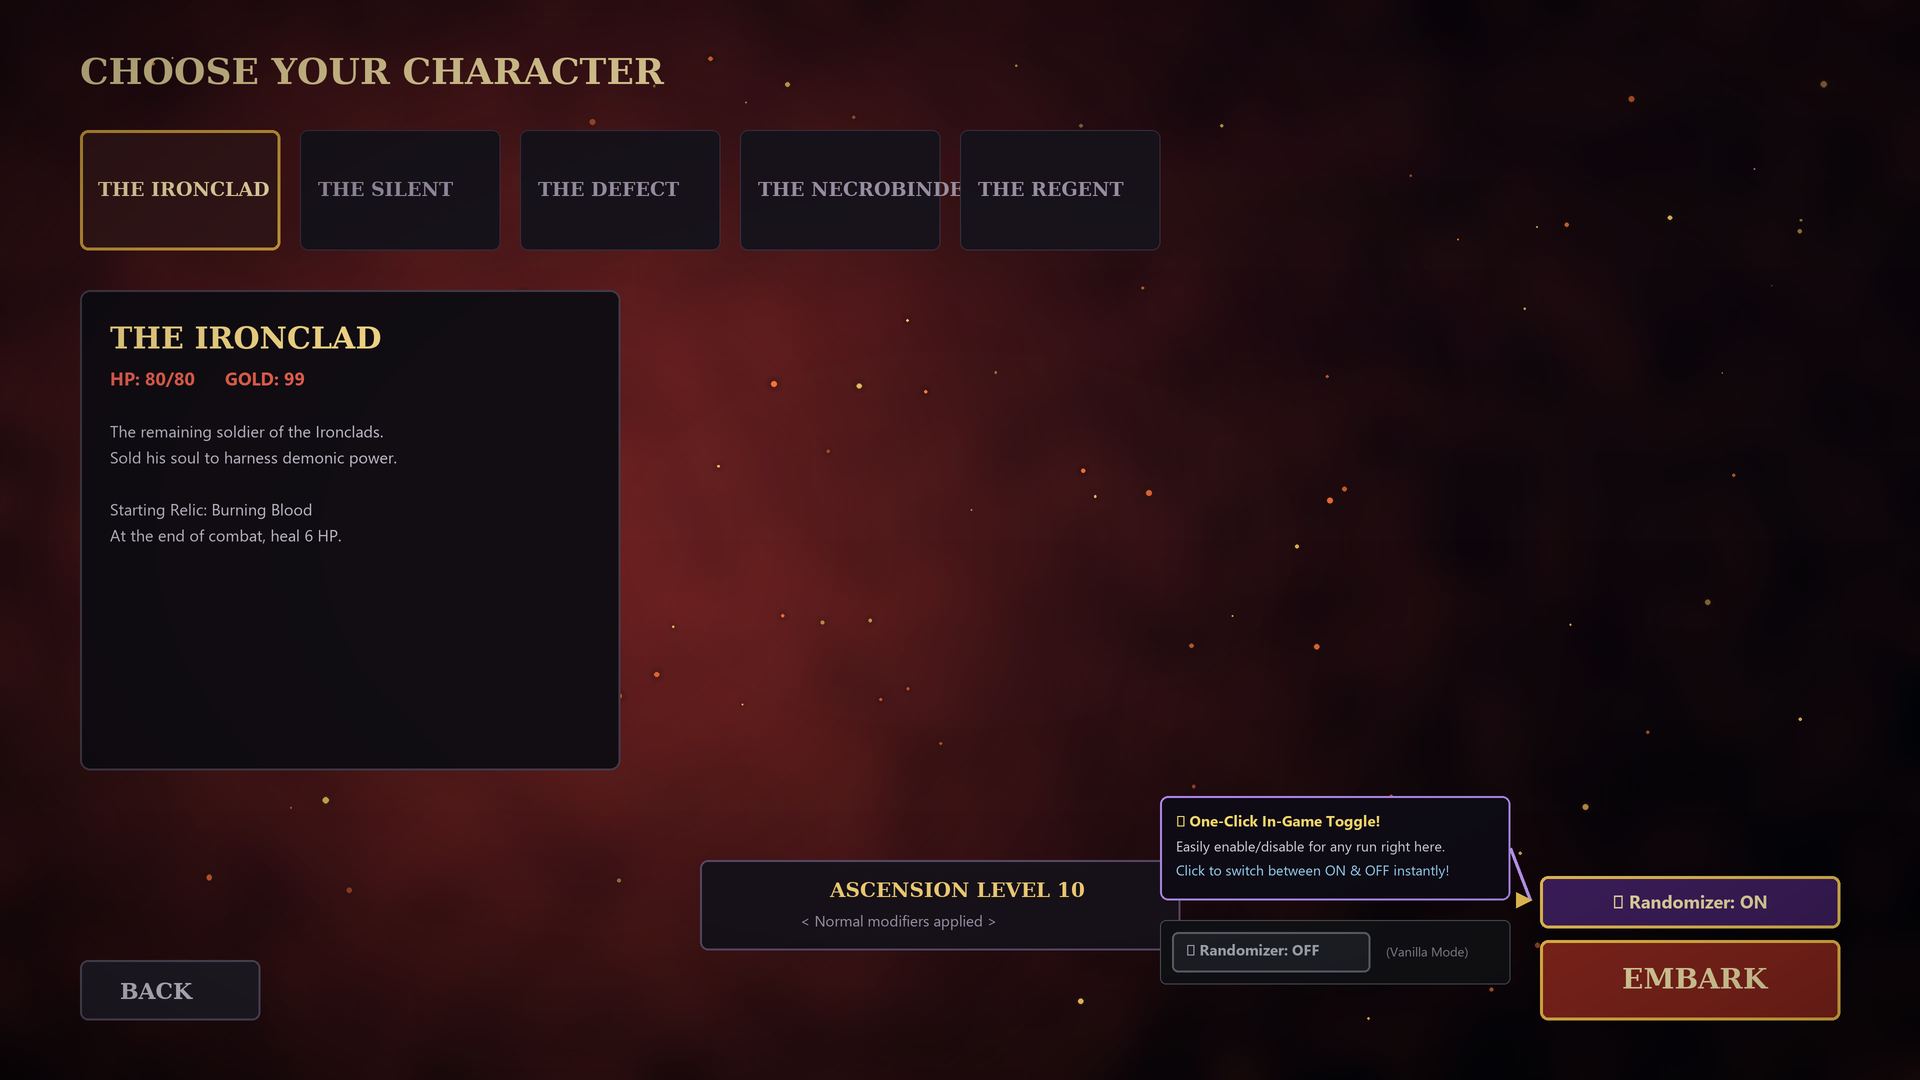
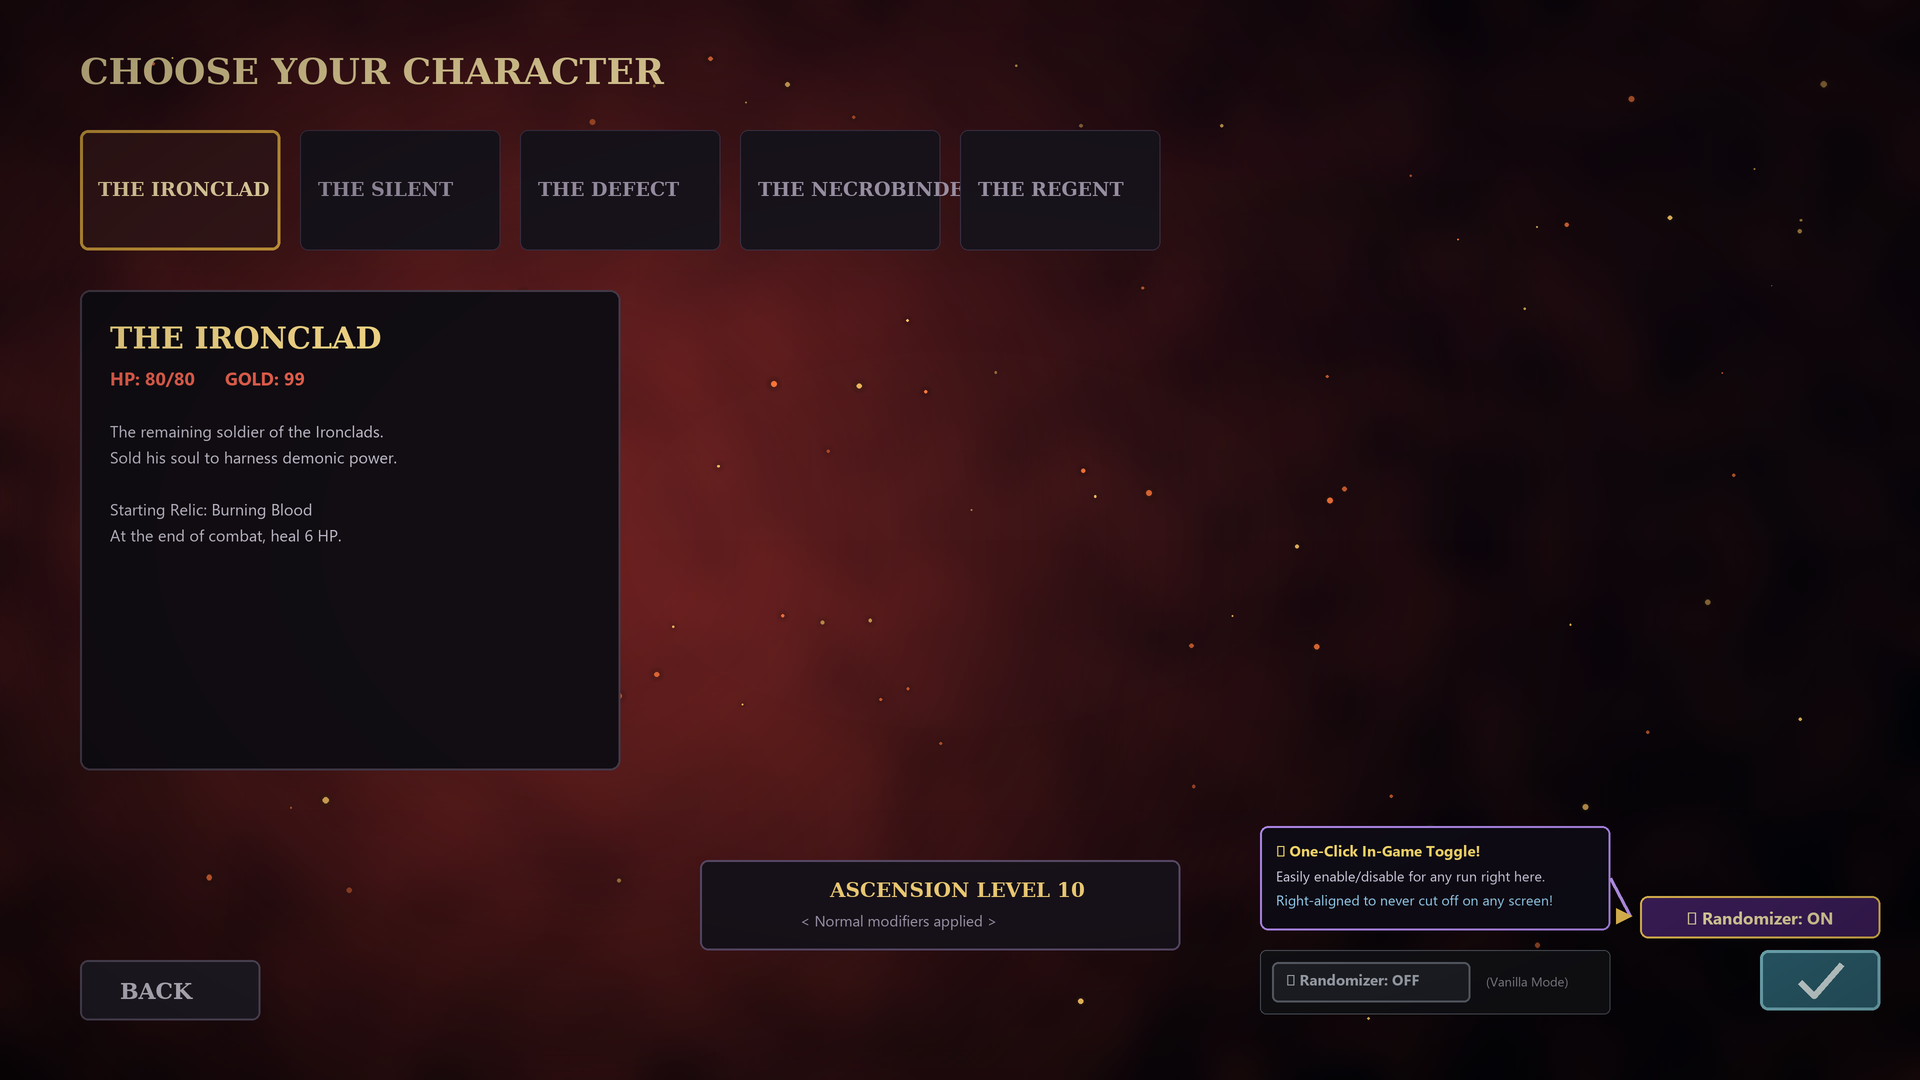
Fix randomizer toggle button right-alignment and viewport bounds

Changed region(s): [[0.5938, 0.7333, 1.0, 0.9472]]

diff --git a/build/make_screenshots.py b/build/make_screenshots.py
@@ -205,31 +205,48 @@ def render_character_select_toggle():
     d.rounded_rectangle([80 * SS, 960 * SS, 260 * SS, 1020 * SS], 8 * SS, fill=(35, 30, 40, 255), outline=(90, 80, 100, 255), width=2 * SS)
     d.text((120 * SS, 978 * SS), "BACK", font=f_serif(22), fill=(220, 215, 230, 255))
 
-    # EMBARK BUTTON bottom right
-    ex0, ey0, ex1, ey1 = int(1540 * SS), int(940 * SS), int(1840 * SS), int(1020 * SS)
-    d.rounded_rectangle([ex0, ey0, ex1, ey1], 8 * SS, fill=(140, 40, 30, 255), outline=(255, 200, 80, 255), width=3 * SS)
-    emb_f = f_serif(28)
-    d.text((ex0 + 82 * SS, ey0 + 22 * SS), "EMBARK", font=emb_f, fill=(255, 240, 180, 255))
+    # STS2 CONFIRM / EMBARK BUTTON (Teal pill with checkmark on bottom right)
+    ex1 = W - int(40 * SS)
+    ew = int(120 * SS)
+    ex0 = ex1 - ew
+    ey0 = int(950 * SS)
+    ey1 = ey0 + int(60 * SS)
+    d.rounded_rectangle([ex0, ey0, ex1, ey1], 8 * SS, fill=(48, 105, 122, 255), outline=(135, 205, 218, 255), width=3 * SS)
+    # Checkmark symbol inside the confirm button
+    cx_mid = (ex0 + ex1) // 2
+    cy_mid = (ey0 + ey1) // 2
+    pts = [
+        (cx_mid - 20 * SS, cy_mid + 2 * SS),
+        (cx_mid - 6 * SS, cy_mid + 16 * SS),
+        (cx_mid + 22 * SS, cy_mid - 16 * SS)
+    ]
+    d.line(pts, fill=(240, 255, 255, 255), width=int(6 * SS), joint="curve")
 
-    # --- THE MOD FEATURE: Randomizer Toggle Button Right Above Embark! ---
-    tx0, ty0, tx1, ty1 = ex0, ey0 - int(64 * SS), ex1, ey0 - int(12 * SS)
-    d.rounded_rectangle([tx0, ty0, tx1, ty1], 8 * SS, fill=(65, 32, 98, 255), outline=(250, 205, 90, 255), width=3 * SS)
-    tog_f = sans(18, bold=True)
+    # --- THE MOD FEATURE: Randomizer Toggle Button Right-Aligned Above ConfirmButton! ---
+    tw = int(240 * SS)
+    th = int(42 * SS)
+    tx1 = ex1  # Right edge aligns with checkmark button right edge
+    tx0 = tx1 - tw
+    ty0 = ey0 - th - int(12 * SS)
+    ty1 = ty0 + th
+
+    d.rounded_rectangle([tx0, ty0, tx1, ty1], 8 * SS, fill=(65, 32, 98, 255), outline=(250, 205, 90, 255), width=2 * SS)
+    tog_f = sans(17, bold=True)
     tog_text = "🎲 Randomizer: ON"
     ttw = d.textlength(tog_text, font=tog_f)
-    d.text((tx0 + (int(300 * SS) - ttw) / 2, ty0 + 13 * SS), tog_text, font=tog_f, fill=(255, 240, 180, 255))
+    d.text((tx0 + (tw - ttw) / 2, ty0 + 10 * SS), tog_text, font=tog_f, fill=(255, 240, 180, 255))
 
     # Callout Arrow pointing to the toggle button
-    cx0, cy0 = tx0 - int(380 * SS), ty0 - int(80 * SS)
+    cx0, cy0 = tx0 - int(380 * SS), ty0 - int(70 * SS)
     d.rounded_rectangle([cx0, cy0, cx0 + int(350 * SS), cy0 + int(104 * SS)], 8 * SS, fill=(15, 12, 22, 245), outline=(180, 140, 240, 255), width=2 * SS)
     f_call = sans(15, bold=True)
     d.text((cx0 + 16 * SS, cy0 + 14 * SS), "✨ One-Click In-Game Toggle!", font=f_call, fill=(255, 225, 110, 255))
     d.text((cx0 + 16 * SS, cy0 + 40 * SS), "Easily enable/disable for any run right here.", font=sans(14), fill=(220, 215, 235, 255))
-    d.text((cx0 + 16 * SS, cy0 + 64 * SS), "Click to switch between ON & OFF instantly!", font=sans(14), fill=(160, 220, 255, 255))
+    d.text((cx0 + 16 * SS, cy0 + 64 * SS), "Right-aligned to never cut off on any screen!", font=sans(14), fill=(160, 220, 255, 255))
 
     # Pointer arrow from callout to button
-    d.line([(cx0 + int(350 * SS), cy0 + int(52 * SS)), (tx0 - int(10 * SS), ty0 + int(24 * SS))], fill=(200, 160, 255, 255), width=3 * SS)
-    d.polygon([(tx0 - int(8 * SS), ty0 + int(24 * SS)), (tx0 - int(24 * SS), ty0 + int(16 * SS)), (tx0 - int(24 * SS), ty0 + int(32 * SS))], fill=(250, 205, 90, 255))
+    d.line([(cx0 + int(350 * SS), cy0 + int(52 * SS)), (tx0 - int(10 * SS), ty0 + int(20 * SS))], fill=(200, 160, 255, 255), width=3 * SS)
+    d.polygon([(tx0 - int(8 * SS), ty0 + int(20 * SS)), (tx0 - int(24 * SS), ty0 + int(12 * SS)), (tx0 - int(24 * SS), ty0 + int(28 * SS))], fill=(250, 205, 90, 255))
 
     # Secondary preview of OFF state
     ox0, oy0 = cx0, cy0 + int(124 * SS)
@@ -260,22 +277,18 @@ def render_shuffled_card_rewards():
     stw = d.textlength(sub, font=f_sub)
     d.text(((W - stw) / 2, 138 * SS), sub, font=f_sub, fill=(190, 220, 255, 255))
 
-    # 3 Cards displayed side by side
     cw, ch = int(320 * SS), int(450 * SS)
     spacing = int(100 * SS)
     total_w = 3 * cw + 2 * spacing
     start_x = (W - total_w) // 2
     cards_y = int(230 * SS)
 
-    # Card 1: Strike (Promoted to RARE! Glowing gold border, 1 cost)
     c1, _ = make_card(cw, ch, (255, 205, 80), (255, 170, 30), (220, 90, 40), cost=1, seal=True, glyph="star")
     im = place(im, c1, start_x + cw // 2, cards_y + ch // 2, angle=-2)
 
-    # Card 2: Whirlwind (Demoted to COMMON! Grey border, 0 cost)
     c2, _ = make_card(cw, ch, (155, 160, 175), (120, 125, 140), (90, 95, 115), cost=0, dim=False, glyph="circle")
     im = place(im, c2, start_x + cw + spacing + cw // 2, cards_y + ch // 2, angle=0)
 
-    # Card 3: Demon Form (Swapped to UNCOMMON! Cyan/Teal border, 3 cost)
     c3, _ = make_card(cw, ch, (75, 185, 255), (45, 140, 245), (70, 60, 160), cost=3, seal=False, glyph="diamond")
     im = place(im, c3, start_x + 2 * (cw + spacing) + cw // 2, cards_y + ch // 2, angle=2)
 

diff --git a/mods/CardRarityRandomizer/src/TogglePatch.cs b/mods/CardRarityRandomizer/src/TogglePatch.cs
@@ -78,8 +78,9 @@ public static class TogglePatch
         {
             Name = "CardRandomizerToggleButton",
             FocusMode = Control.FocusModeEnum.None,
-            CustomMinimumSize = new Vector2(240, 42)
+            CustomMinimumSize = new Vector2(200, 38)
         };
+        button.AddThemeFontSizeOverride("font_size", 16);
 
         void Refresh()
         {
@@ -117,17 +118,39 @@ public static class TogglePatch
 
         void Place()
         {
+            var minSize = button.GetCombinedMinimumSize();
+            float btnW = Math.Max(minSize.X, 200f);
+            float btnH = Math.Max(minSize.Y, 38f);
+            button.Size = new Vector2(btnW, btnH);
+
+            float rightEdge = 1840f;
+            float topY = 920f;
+
             if (anchor != null && anchor.IsInsideTree())
             {
                 Rect2 rect = anchor.GetGlobalRect();
                 if (rect.Size.X > 0 && rect.Size.Y > 0)
                 {
-                    button.Size = new Vector2(rect.Size.X, 42);
-                    button.GlobalPosition = new Vector2(rect.Position.X, rect.Position.Y - 52);
-                    return;
+                    rightEdge = rect.End.X;
+                    topY = rect.Position.Y - btnH - 10f;
                 }
             }
-            button.Position = new Vector2(1520, 920);
+
+            // Right-align button with the right edge of the anchor (ConfirmButton)
+            float x = rightEdge - btnW;
+
+            // Ensure button does not clip off the right edge of the screen
+            float vpWidth = screen.GetViewportRect().Size.X;
+            if (vpWidth > 0)
+            {
+                if (x + btnW > vpWidth - 16f)
+                {
+                    x = vpWidth - btnW - 16f;
+                }
+                if (x < 16f) x = 16f;
+            }
+
+            button.GlobalPosition = new Vector2(x, topY);
         }
 
         if (anchor != null)
@@ -135,6 +158,16 @@ public static class TogglePatch
             anchor.ItemRectChanged += Place;
         }
         screen.VisibilityChanged += Place;
+        screen.ItemRectChanged += Place;
+
+        var vp = screen.GetViewport();
+        if (vp != null)
+        {
+            Action onSizeChanged = Place;
+            vp.SizeChanged += onSizeChanged;
+            button.TreeExiting += () => vp.SizeChanged -= onSizeChanged;
+        }
+
         Callable.From(Place).CallDeferred();
     }
 
@@ -147,7 +180,7 @@ public static class TogglePatch
         };
         box.SetBorderWidthAll(2);
         box.SetCornerRadiusAll(6);
-        box.ContentMarginLeft = box.ContentMarginRight = 14;
+        box.ContentMarginLeft = box.ContentMarginRight = 12;
         box.ContentMarginTop = box.ContentMarginBottom = 6;
         return box;
     }
